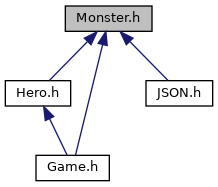
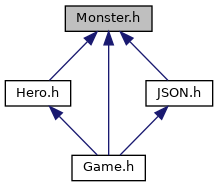
Update gh-pages to output generated at 55c5626

diff --git a/Game_8h_source.html b/Game_8h_source.html
@@ -82,7 +82,7 @@ $(function() {
 <div class="line"><a name="l00025"></a><span class="lineno">   25</span>&#160;<span class="preprocessor">#include &quot;<a class="code" href="Hero_8h.html">Hero.h</a>&quot;</span></div>
 <div class="line"><a name="l00026"></a><span class="lineno">   26</span>&#160;<span class="preprocessor">#include &quot;<a class="code" href="Map_8h.html">Map.h</a>&quot;</span></div>
 <div class="line"><a name="l00027"></a><span class="lineno">   27</span>&#160;<span class="preprocessor">#include &quot;<a class="code" href="Monster_8h.html">Monster.h</a>&quot;</span></div>
-<div class="line"><a name="l00028"></a><span class="lineno">   28</span>&#160;<span class="preprocessor">#include &quot;Json.h&quot;</span></div>
+<div class="line"><a name="l00028"></a><span class="lineno">   28</span>&#160;<span class="preprocessor">#include &quot;<a class="code" href="JSON_8h.html">JSON.h</a>&quot;</span></div>
 <div class="line"><a name="l00029"></a><span class="lineno">   29</span>&#160; </div>
 <div class="line"><a name="l00030"></a><span class="lineno"><a class="line" href="classGame.html">   30</a></span>&#160;<span class="keyword">class </span><a class="code" href="classGame.html">Game</a></div>
 <div class="line"><a name="l00031"></a><span class="lineno">   31</span>&#160;{</div>
@@ -142,6 +142,7 @@ $(function() {
 <div class="ttc" id="aclassGame_1_1AlreadyHasHeroException_html_a661fe174e6ed027c3ebe5a5c13bf5c55"><div class="ttname"><a href="classGame_1_1AlreadyHasHeroException.html#a661fe174e6ed027c3ebe5a5c13bf5c55">Game::AlreadyHasHeroException::AlreadyHasHeroException</a></div><div class="ttdeci">AlreadyHasHeroException()</div><div class="ttdef"><b>Definition:</b> Game.h:117</div></div>
 <div class="ttc" id="aclassGame_1_1OccupiedException_html"><div class="ttname"><a href="classGame_1_1OccupiedException.html">Game::OccupiedException</a></div><div class="ttdef"><b>Definition:</b> Game.h:101</div></div>
 <div class="ttc" id="aclassGame_1_1AlreadyHasUnitsException_html"><div class="ttname"><a href="classGame_1_1AlreadyHasUnitsException.html">Game::AlreadyHasUnitsException</a></div><div class="ttdef"><b>Definition:</b> Game.h:119</div></div>
+<div class="ttc" id="aJSON_8h_html"><div class="ttname"><a href="JSON_8h.html">JSON.h</a></div></div>
 <div class="ttc" id="aclassGame_1_1NotInitializedException_html"><div class="ttname"><a href="classGame_1_1NotInitializedException.html">Game::NotInitializedException</a></div><div class="ttdef"><b>Definition:</b> Game.h:130</div></div>
 <div class="ttc" id="aclassMonster_html"><div class="ttname"><a href="classMonster.html">Monster</a></div><div class="ttdef"><b>Definition:</b> Monster.h:19</div></div>
 <div class="ttc" id="aclassGame_html_ad746449c7fd34ff25f986fb4b6358ff6"><div class="ttname"><a href="classGame.html#ad746449c7fd34ff25f986fb4b6358ff6">Game::setMap</a></div><div class="ttdeci">void setMap(Map *)</div><div class="ttdoc">Sets a map in a game with no map.</div><div class="ttdef"><b>Definition:</b> Game.cpp:17</div></div>

diff --git a/Game_8h.html b/Game_8h.html
@@ -81,23 +81,26 @@ $(function() {
 <code>#include &quot;<a class="el" href="Hero_8h_source.html">Hero.h</a>&quot;</code><br />
 <code>#include &quot;<a class="el" href="Map_8h_source.html">Map.h</a>&quot;</code><br />
 <code>#include &quot;<a class="el" href="Monster_8h_source.html">Monster.h</a>&quot;</code><br />
-<code>#include &quot;Json.h&quot;</code><br />
+<code>#include &quot;<a class="el" href="JSON_8h_source.html">JSON.h</a>&quot;</code><br />
 </div><div class="textblock"><div class="dynheader">
 Include dependency graph for Game.h:</div>
 <div class="dyncontent">
 <div class="center"><img src="Game_8h__incl.png" border="0" usemap="#Game_8h" alt=""/></div>
 <map name="Game_8h" id="Game_8h">
-<area shape="rect" title="Game class." alt="" coords="262,5,336,32"/>
-<area shape="rect" title=" " alt="" coords="6,229,64,256"/>
-<area shape="rect" title=" " alt="" coords="144,155,206,181"/>
-<area shape="rect" title=" " alt="" coords="230,155,304,181"/>
-<area shape="rect" title=" " alt="" coords="379,155,454,181"/>
-<area shape="rect" title=" " alt="" coords="478,155,565,181"/>
-<area shape="rect" title=" " alt="" coords="491,80,534,107"/>
-<area shape="rect" href="Hero_8h.html" title="Hero class." alt="" coords="44,80,109,107"/>
-<area shape="rect" href="Monster_8h.html" title="Monster class." alt="" coords="33,155,120,181"/>
-<area shape="rect" href="Map_8h.html" title="Map class." alt="" coords="302,80,365,107"/>
-<area shape="rect" title=" " alt="" coords="558,80,619,107"/>
+<area shape="rect" title="Game class." alt="" coords="328,5,401,32"/>
+<area shape="rect" title=" " alt="" coords="487,229,546,256"/>
+<area shape="rect" title=" " alt="" coords="5,155,68,181"/>
+<area shape="rect" title=" " alt="" coords="144,155,217,181"/>
+<area shape="rect" title=" " alt="" coords="293,155,367,181"/>
+<area shape="rect" title=" " alt="" coords="392,155,479,181"/>
+<area shape="rect" title=" " alt="" coords="862,80,905,107"/>
+<area shape="rect" href="Hero_8h.html" title="Hero class." alt="" coords="772,80,837,107"/>
+<area shape="rect" href="Monster_8h.html" title="Monster class." alt="" coords="805,155,892,181"/>
+<area shape="rect" href="Map_8h.html" title="Map class." alt="" coords="155,80,217,107"/>
+<area shape="rect" href="JSON_8h.html" title=" " alt="" coords="473,80,539,107"/>
+<area shape="rect" title=" " alt="" coords="730,155,781,181"/>
+<area shape="rect" title=" " alt="" coords="555,155,601,181"/>
+<area shape="rect" title=" " alt="" coords="626,155,706,181"/>
 </map>
 </div>
 </div>

diff --git a/JSON_8h.html b/JSON_8h.html
@@ -95,6 +95,15 @@ Include dependency graph for JSON.h:</div>
 <area shape="rect" title=" " alt="" coords="709,80,789,107"/>
 </map>
 </div>
+</div><div class="textblock"><div class="dynheader">
+This graph shows which files directly or indirectly include this file:</div>
+<div class="dyncontent">
+<div class="center"><img src="JSON_8h__dep__incl.png" border="0" usemap="#JSON_8hdep" alt=""/></div>
+<map name="JSON_8hdep" id="JSON_8hdep">
+<area shape="rect" title=" " alt="" coords="9,5,75,32"/>
+<area shape="rect" href="Game_8h.html" title="Game class." alt="" coords="5,80,79,107"/>
+</map>
+</div>
 </div>
 <p><a href="JSON_8h_source.html">Go to the source code of this file.</a></p>
 <table class="memberdecls">

diff --git a/Monster_8h.html b/Monster_8h.html
@@ -89,7 +89,7 @@ This graph shows which files directly or indirectly include this file:</div>
 <map name="Monster_8hdep" id="Monster_8hdep">
 <area shape="rect" title="Monster class." alt="" coords="65,5,152,32"/>
 <area shape="rect" href="Hero_8h.html" title="Hero class." alt="" coords="5,80,71,107"/>
-<area shape="rect" href="Game_8h.html" title="Game class." alt="" coords="36,155,109,181"/>
+<area shape="rect" href="Game_8h.html" title="Game class." alt="" coords="72,155,145,181"/>
 <area shape="rect" href="JSON_8h.html" title=" " alt="" coords="146,80,213,107"/>
 </map>
 </div>
